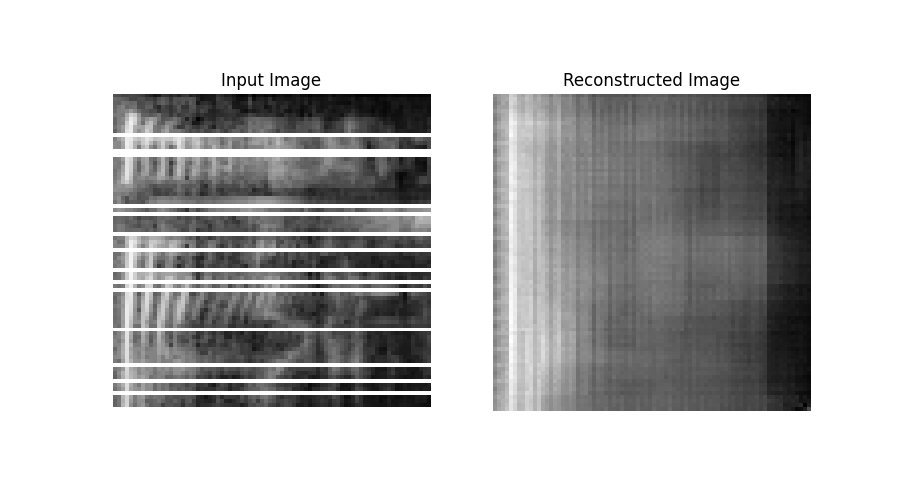
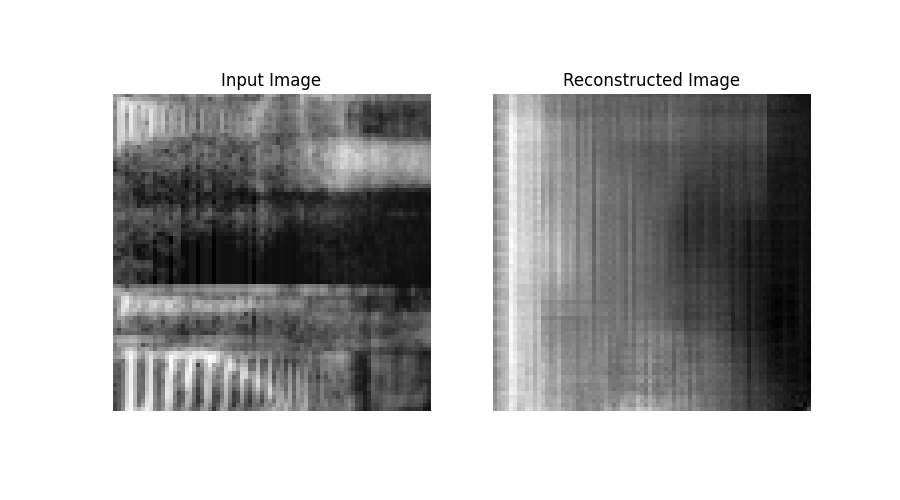
cnn tests

diff --git a/restorator_lstm.py b/restorator_lstm.py
@@ -8,7 +8,6 @@ import subprocess
 import random
 import numpy as np
 from spec_dataset import SpectrogramDataset, create_dataloaders, load_datasets
-# from recon_dataset import ZeroedSpectrogramDataset, create_dataloaders, load_datasets
 from torchvision import datasets, transforms
 from torch.optim.lr_scheduler import StepLR
 from torch.autograd import Variable
@@ -17,52 +16,20 @@ from wandb_osh.hooks import TriggerWandbSyncHook
 
 comm_dir = "/work/tc062/tc062/s2501147/autoencoder/.wandb_osh_command_dir"
 
-class RAutoencoder(nn.Module):
-    def __init__(self):
+class LSTMAutoencoder(nn.Module):
+    def __init__(self, input_size, embedding_dim, lstm_units, hidden_dim, num_classes, lstms_layers, 
+                        bidirectional, droupout, pad_index, batch_size, cnn):
 
-        super(RAutoencoder, self).__init__()
+        super(LSTMAutoencoder, self).__init__()
 
         # Encoder
         self.encoder = nn.Sequential(
-            nn.Conv2d(1, 128, kernel_size=3, stride=4, padding=1),  # output size: (32, 40, 40)
-            nn.BatchNorm2d(128),
-            nn.LeakyReLU(0.2),
-            nn.Conv2d(128, 512, kernel_size=3, stride=4, padding=2),  # output size: (64, 20, 20)
-            nn.BatchNorm2d(512),
-            nn.LeakyReLU(0.2),
-            nn.Conv2d(512, 1024, kernel_size=3, stride=1, padding=1),  # output size: (128, 10, 10)
-            nn.BatchNorm2d(1024),
-            nn.LeakyReLU(0.2),
-            # nn.Conv2d(128, 256, kernel_size=3, stride=2, padding=1),  # output size: (256, 5, 5)
-            # nn.BatchNorm2d(256),
-            # nn.ReLU(True),
-            # nn.Conv2d(256, 512, kernel_size=3, stride=1, padding=1),  # output size: (512, 5, 5)
-            # nn.BatchNorm2d(512),
-            # nn.ReLU(True),
-            # nn.Conv2d(512, 1024, kernel_size=3, stride=1, padding=1),  # output size: (1024, 5, 5)
-            # nn.BatchNorm2d(1024),
-            # nn.ReLU(True)
+           # TODO try 2 biLSTM layers + 1 conv + 1 linear
         )
 
         # Decoder
         self.decoder = nn.Sequential(
-            # nn.ConvTranspose2d(1024, 512, kernel_size=3, stride=1, padding=1),  # output size: (512, 5, 5)
-            # nn.BatchNorm2d(512),
-            # nn.ReLU(True),
-            # nn.ConvTranspose2d(512, 256, kernel_size=3, stride=1, padding=1),  # output size: (256, 5, 5)
-            # nn.BatchNorm2d(256),
-            # nn.ReLU(True),
-            # nn.ConvTranspose2d(256, 128, kernel_size=3, stride=2, padding=1, output_padding=1),  # output size: (128, 10, 10)
-            # nn.BatchNorm2d(128),
-            # nn.ReLU(True),
-            nn.ConvTranspose2d(1024, 512, kernel_size=3, stride=1, padding=1, output_padding=0),  # output size: (64, 20, 20)
-            nn.BatchNorm2d(512),
-            nn.LeakyReLU(True),
-            nn.ConvTranspose2d(512, 128, kernel_size=3, stride=4, padding=2, output_padding=2),  # output size: (32, 40, 40)
-            nn.BatchNorm2d(128),
-            nn.LeakyReLU(True),
-            nn.ConvTranspose2d(128, 1, kernel_size=3, stride=4, padding=2, output_padding=1),  # output size: (1, 80, 80)
-            # nn.Sigmoid()  # To output values between 0 and 1
+            # TODO try 2 biLSTM layers + 1 conv + 1 linear
         )
 
     def forward(self, x):
@@ -87,10 +54,10 @@ def train(args, model, device, train_loader, optimizer, epoch, trigger_sync, sav
         for column in columns:
             zeroed_tensor[:,:, :, column]=0
         # save tensor and print tensor; needs to be on cpu
-        # cpu_z_tensor = zeroed_tensor.to('cpu')
-        # numpy_zero_tensor = cpu_z_tensor.numpy()
-        # np.save(f"{save_dir}/zeroed_numpy_tensor_{counter}.npy", numpy_zero_tensor)
-        # counter +=1 
+        cpu_z_tensor = zeroed_tensor.to('cpu')
+        numpy_zero_tensor = cpu_z_tensor.numpy()
+        np.save(f"{save_dir}/zeroed_numpy_tensor_{counter}.npy", numpy_zero_tensor)
+        counter +=1 
         # print("size of zeroed_tensor: ", zeroed_tensor.size())
         
         optimizer.zero_grad()

diff --git a/reconstructor_user.py b/reconstructor_user.py
@@ -6,6 +6,7 @@ NOTE
 """
 import matplotlib.pyplot as plt
 import torch
+import random
 from PIL import Image
 from torchvision import datasets, transforms
 from torchvision.transforms import ToTensor, ToPILImage
@@ -26,7 +27,14 @@ def load_and_preprocess_tensor(image_path):
     # dividing by 255.0 because assuming the image is an 8-bit image
     spec_tensor = torch.tensor(spectrogram, dtype=torch.float32)
     
-    return spec_tensor
+    # make directly 1 column zeroed out for this batch 
+    column = random.randint(0, 79)
+    print("column: ", column)
+    zeroed_tensor = torch.clone(spec_tensor)
+    print("size of zeroed_tensor: ", zeroed_tensor.size())
+    zeroed_tensor[:,:, :, column]=0
+
+    return zeroed_tensor
 
 def predict_image_output(model, image_tensor):
     model.eval()
@@ -34,29 +42,31 @@ def predict_image_output(model, image_tensor):
         output = model(image_tensor)
     return output
 
-def visualize_image(og_tensor_path, predicted_image_tensor):
+def visualize_image(tensor_masked, predicted_image_tensor):
 
-    og_tensor = np.load(og_tensor_path)
-    og_tensor = np.swapaxes(og_tensor, 0, 1)
+    # og_tensor = np.load(og_tensor_path)
+    tensor_masked = tensor_masked.squeeze().numpy()
     # # Plot the input and output images side by side
     # Convert the predicted tensor to a NumPy array
     print("predicted_image size: ", predicted_image_tensor.size())
     predicted_image = predicted_image_tensor.squeeze().numpy()
     print("predicted_image size: ", predicted_image.shape)
-    predicted_image = np.swapaxes(predicted_image, 0, 1)
+    # predicted_image = np.swapaxes(predicted_image, 0, 1)
 
     # flip the image for printing PLEASE
     fig, axs = plt.subplots(1, 2, figsize=(9, 5))
-    axs[0].imshow(og_tensor, cmap='gray')
+    axs[0].imshow(tensor_masked, cmap='gray')
     axs[0].set_title('Input Image')
     axs[0].axis('off')
+    axs[0].invert_yaxis()
     
     axs[1].imshow(predicted_image, cmap='gray')
     axs[1].set_title('Reconstructed Image')
     axs[1].axis('off')
+    axs[1].invert_yaxis()
     
     plt.show()
-    plt.savefig('reconstructor_test_autoencoder.png')
+    plt.savefig('reconstructor_1024_3layers_4paddings.png')
 
 print("working directory: ", os.getcwd())
 os.chdir("/work/tc062/tc062/s2501147/autoencoder")
@@ -66,16 +76,16 @@ device = torch.device("cpu")
 print("device: ", device)
 
 
-model = Autoencoder().to(device)
+model = RAutoencoder().to(device)
 total_params = sum(p.numel() for p in model.parameters())
 print("total params: ", total_params)
 print("loaded autoenc")
-model.load_state_dict(torch.load("spec_128_leakyReLu_nosigmoid_autoencoder.pt"))
+model.load_state_dict(torch.load("reconstructor_1024_3layers_4paddings.pt"))
 print("loaded model")
-img = load_and_preprocess_tensor("/work/tc062/tc062/s2501147/autoencoder/libritts_data/saved_chopped_arrays/train_zeroed/array_84_121123_000007_000001.wav_chunk_0_zeroed.npy")
+img = load_and_preprocess_tensor("/work/tc062/tc062/s2501147/autoencoder/libritts_data/saved_chopped_arrays/val/array_174_168635_000042_000002.wav_chunk_1.npy")
 print(img.size())
 
 predicted_image = predict_image_output(model, img)
 # print("predicted digit: ", predicted_digit)
 
-visualize_image("/work/tc062/tc062/s2501147/autoencoder/libritts_data/saved_chopped_arrays/train_zeroed/array_84_121123_000007_000001.wav_chunk_0_zeroed.npy", predicted_image)
+visualize_image(img, predicted_image)

diff --git a/recon_dataset.py b/recon_dataset.py
@@ -33,11 +33,11 @@ class ZeroedSpectrogramDataset(Dataset):
 def load_datasets(base_dir):
     transform = transforms.Compose([transforms.Normalize(0, 0.5)]) 
     # print("In load datasets")
-    train_dataset = ZeroedSpectrogramDataset(array_dir=os.path.join(base_dir, "train_zeroed"), transform=None)
+    train_dataset = ZeroedSpectrogramDataset(array_dir=os.path.join(base_dir, "train_zeroed"), transform=transform)
     # print("train dataset loaded")
-    val_dataset = ZeroedSpectrogramDataset(array_dir=os.path.join(base_dir, "val_zeroed"), transform=None)
+    val_dataset = ZeroedSpectrogramDataset(array_dir=os.path.join(base_dir, "val_zeroed"), transform=transform)
     # print("val dataset loaded")
-    test_dataset = ZeroedSpectrogramDataset(array_dir=os.path.join(base_dir, "test_zeroed"), transform=None)
+    test_dataset = ZeroedSpectrogramDataset(array_dir=os.path.join(base_dir, "test_zeroed"), transform=transform)
     # print("test dataset loaded")
     
     return train_dataset, val_dataset, test_dataset

diff --git a/spec_dataset.py b/spec_dataset.py
@@ -32,11 +32,11 @@ class SpectrogramDataset(Dataset):
 def load_datasets(base_dir):
     transform = transforms.Compose([transforms.Normalize(0, 0.5)]) 
     # print("In load datasets")
-    train_dataset = SpectrogramDataset(array_dir=os.path.join(base_dir, "train"), transform=None)
+    train_dataset = SpectrogramDataset(array_dir=os.path.join(base_dir, "train"), transform=transform)
     # print("train dataset loaded")
-    val_dataset = SpectrogramDataset(array_dir=os.path.join(base_dir, "val"), transform=None)
+    val_dataset = SpectrogramDataset(array_dir=os.path.join(base_dir, "val"), transform=transform)
     # print("val dataset loaded")
-    test_dataset = SpectrogramDataset(array_dir=os.path.join(base_dir, "test"), transform=None)
+    test_dataset = SpectrogramDataset(array_dir=os.path.join(base_dir, "test"), transform=transform)
     # print("test dataset loaded")
     
     return train_dataset, val_dataset, test_dataset

diff --git a/spec_auto_user.py b/spec_auto_user.py
@@ -69,10 +69,10 @@ model = Autoencoder().to(device)
 print("loaded autoenc")
 model.load_state_dict(torch.load("spec_128_leakyReLu_nosigmoid_autoencoder.pt"))
 print("loaded model")
-img = load_and_preprocess_tensor("autoencoder/libritts_data/saved_chopped_arrays/test_zeroed/array_84_121123_000008_000003.wav_chunk_6_zeroed.npy")
+img = load_and_preprocess_tensor("/work/tc062/tc062/s2501147/autoencoder/libritts_data/saved_chopped_arrays/test/array_251_136532_000004_000001.wav_chunk_12.npy")
 print(img.size())
 
 predicted_image = predict_image_output(model, img)
 # print("predicted digit: ", predicted_digit)
 
-visualize_image("autoencoder/libritts_data/saved_chopped_arrays/test_zeroed/array_84_121123_000008_000003.wav_chunk_6_zeroed.npy", predicted_image, 24000)
+visualize_image("/work/tc062/tc062/s2501147/autoencoder/libritts_data/saved_chopped_arrays/test/array_251_136532_000004_000001.wav_chunk_12.npy", predicted_image, 24000)

diff --git a/test2.py b/test2.py
@@ -1,0 +1,29 @@
+import matplotlib.pyplot as plt
+import torch
+import random
+from PIL import Image
+from torchvision import datasets, transforms
+from torchvision.transforms import ToTensor, ToPILImage
+import torch.nn.functional as F
+from reconstructor import RAutoencoder
+from autoencoder_spec import Autoencoder
+import numpy as np
+import os
+
+
+def visualize_tensor(array_path, nbr_columns):
+    og_tensor = np.load(array_path)
+    columns = random.sample(range(0,79), nbr_columns)
+    for column in columns:
+        og_tensor[:,:,:, column]=0
+    
+    image_array = og_tensor[0,0,:,:]
+    a_max = image_array.min()
+    print("image array shape: ", image_array)
+    print("max of array: ", a_max)
+    plt.imshow(image_array,cmap='grey')
+    plt.savefig('test_zero_tensor.png')
+
+
+test_tensor = "/work/tc062/tc062/s2501147/autoencoder/test_zeroed_tensors/zeroed_numpy_tensor_0.npy"
+visualize_tensor(test_tensor, 5)
